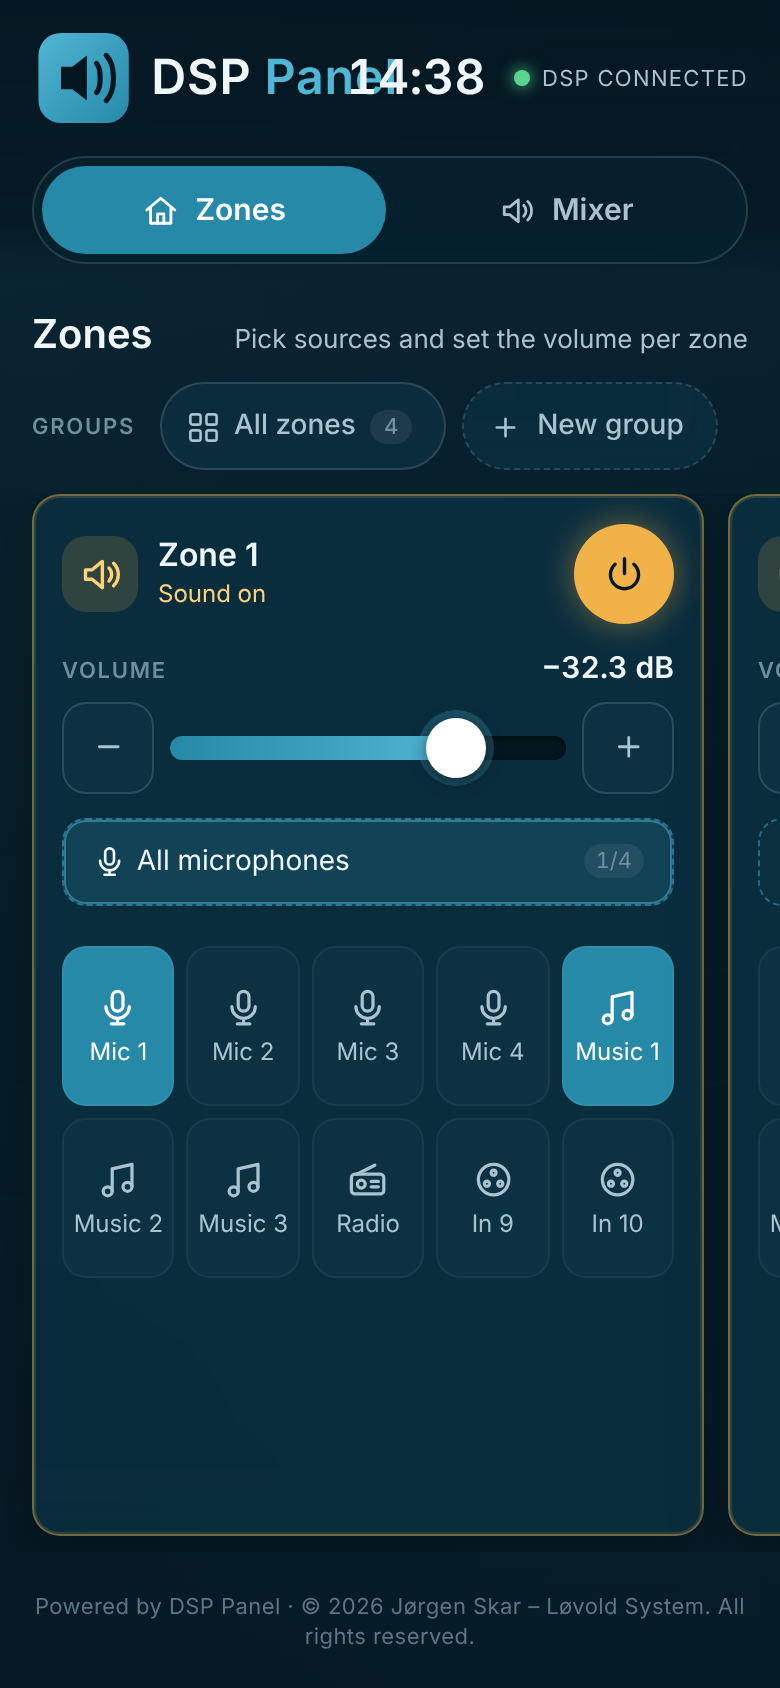
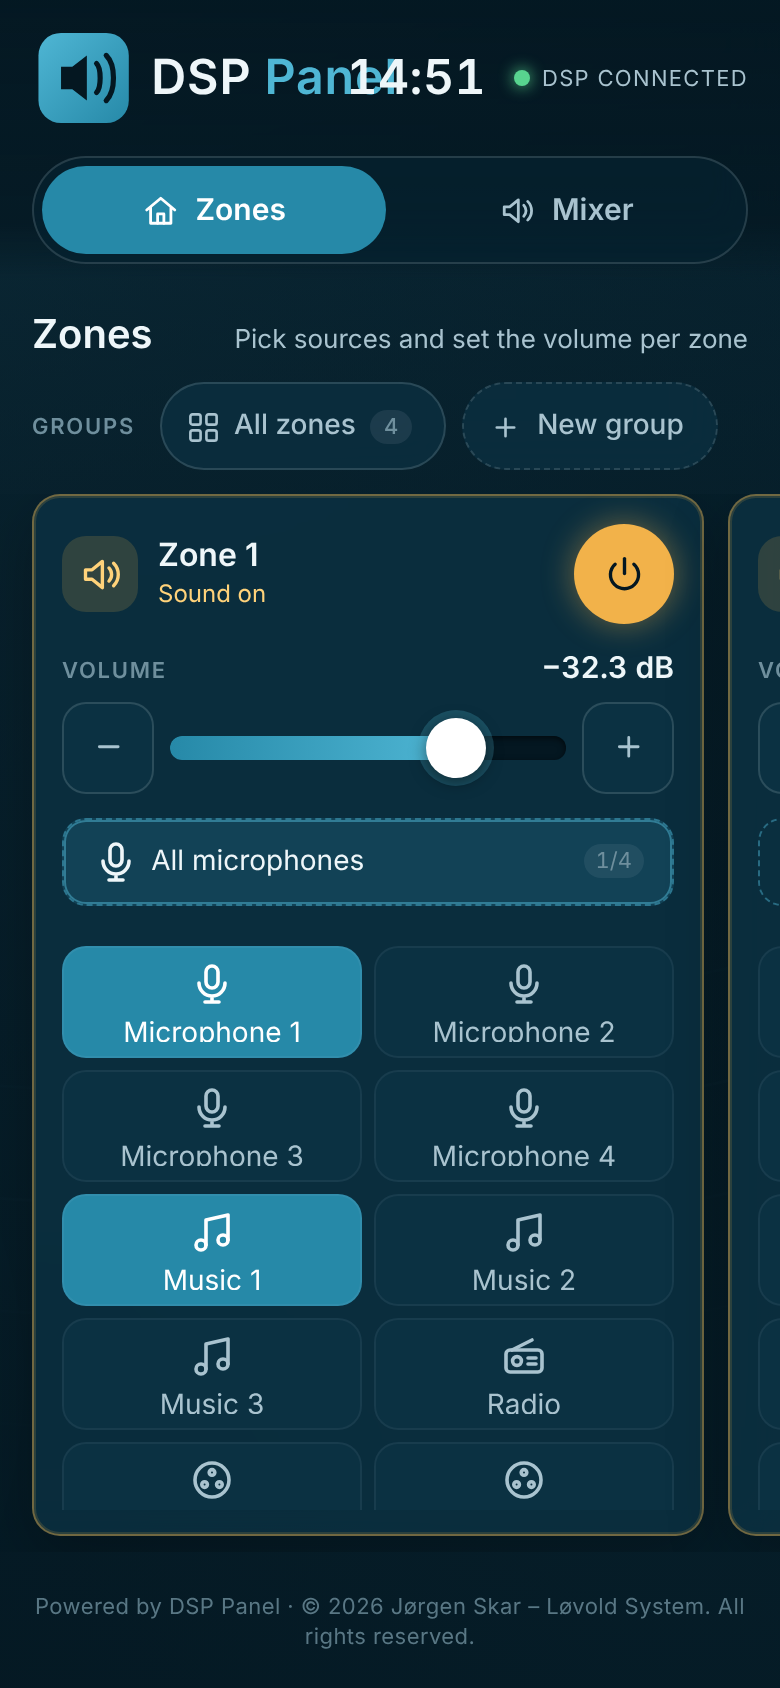
Source buttons per row setting (default 2); wide tiles show the full name

diff --git a/bridge/admin/index.html b/bridge/admin/index.html
@@ -148,7 +148,8 @@
     </div>
     <div class="row">
       <div><label data-t>Zones layout</label><select id="ui-zones"><option value="scroll" data-t>Side-scrolling, one row</option><option value="scroll2" data-t>Side-scrolling, two rows</option><option value="grid" data-t>Grid (wraps, scrolls down)</option></select></div>
-      <div><label data-t>Source buttons</label><select id="ui-sources"><option value="tiles" data-t>Compact tiles</option><option value="list" data-t>List</option></select></div>
+      <div><label data-t>Source buttons</label><select id="ui-sources"><option value="tiles" data-t>Tiles (icon above name)</option><option value="list" data-t>List (icon beside name)</option></select></div>
+      <div><label data-t>Buttons per row</label><select id="ui-src-cols"><option value="2">2</option><option value="3">3</option><option value="4">4</option><option value="5">5</option><option value="0" data-t>As many as fit</option></select></div>
     </div>
     <div class="row">
       <div><label data-t>Bridge address as seen from the screens</label><input id="public-url" placeholder="auto"></div>
@@ -328,7 +329,7 @@
     "Saving …": "Lagrer …", "Not saved:\n• %s": "Ikke lagret:\n• %s", "Saved and applied. The panels reload.": "Lagret og tatt i bruk. Panelene laster på nytt.",
     "The file is not valid JSON.": "Filen er ikke gyldig JSON.", "Replace the whole configuration with “%s” (%s sources, %s zones)? The panels reload.": "Erstatte hele oppsettet med «%s» (%s kilder, %s soner)? Panelene laster på nytt.",
     "Uploading …": "Laster opp …", "Not applied:\n• %s": "Ikke tatt i bruk:\n• %s", "Configuration from “%s” applied.": "Konfigurasjon fra «%s» tatt i bruk.", "Reconnecting to the DSP …": "Kobler til DSP på nytt …",
-    "Zone": "Sone", "licence": "lisens", "Zones layout": "Sone-oppsett", "Side-scrolling, one row": "Sidescroll, én rad", "Side-scrolling, two rows": "Sidescroll, to rader", "Grid (wraps, scrolls down)": "Rutenett (bryter, scroller ned)", "Source buttons": "Kildeknapper", "Compact tiles": "Kompakte fliser", "List": "Liste", "Short name": "Kortnavn", "for tiles, e.g. Mic 1": "til fliser, f.eks. Mik 1", "All rights reserved.": "Alle rettigheter forbeholdt.", "New source": "Ny kilde", "New zone": "Ny sone", "New group": "Ny gruppe", "New source group": "Ny kildegruppe", "New screen": "Ny skjerm",
+    "Zone": "Sone", "licence": "lisens", "Zones layout": "Sone-oppsett", "Side-scrolling, one row": "Sidescroll, én rad", "Side-scrolling, two rows": "Sidescroll, to rader", "Grid (wraps, scrolls down)": "Rutenett (bryter, scroller ned)", "Source buttons": "Kildeknapper", "Tiles (icon above name)": "Fliser (ikon over navn)", "List (icon beside name)": "Liste (ikon ved siden av navn)", "Buttons per row": "Knapper per rad", "As many as fit": "Så mange som får plass", "Short name": "Kortnavn", "for tiles, e.g. Mic 1": "til fliser, f.eks. Mik 1", "All rights reserved.": "Alle rettigheter forbeholdt.", "New source": "Ny kilde", "New zone": "Ny sone", "New group": "Ny gruppe", "New source group": "Ny kildegruppe", "New screen": "Ny skjerm",
   };
   const LS_LANG = "dsp-panel.admin.lang";
   let adminLang = "en"; try { adminLang = localStorage.getItem(LS_LANG) || "en"; } catch (_) {}
@@ -570,7 +571,7 @@
     $("#dsp-gap").value = site.dsp.minGapMs != null ? site.dsp.minGapMs : 100; $("#dsp-reply").value = site.dsp.replyTimeoutMs != null ? site.dsp.replyTimeoutMs : 400;
     $("#ctrl-mode").value = site.control.mode; $("#ctrl-level").value = site.control.inputLevelBlock; $("#ctrl-mute").value = site.control.inputMuteBlock; $("#ctrl-zone").value = site.control.zoneBlock;
     $("#lv-in-min").value = site.levels.input.min; $("#lv-in-max").value = site.levels.input.max; $("#lv-zone-min").value = site.levels.zone.min; $("#lv-zone-max").value = site.levels.zone.max;
-    $("#site-name").value = site.site.name; $("#site-area").value = site.site.area; $("#ui-step").value = (site.ui || {}).volumeStepPercent || 5; $("#ui-lang").value = (site.ui || {}).lang || "en"; $("#ui-zones").value = (site.ui || {}).zoneLayout || "scroll"; $("#ui-sources").value = (site.ui || {}).sourceLayout || "tiles"; $("#admin-password").value = (site.admin || {}).password || "";
+    $("#site-name").value = site.site.name; $("#site-area").value = site.site.area; $("#ui-step").value = (site.ui || {}).volumeStepPercent || 5; $("#ui-lang").value = (site.ui || {}).lang || "en"; $("#ui-zones").value = (site.ui || {}).zoneLayout || "scroll"; $("#ui-sources").value = (site.ui || {}).sourceLayout || "tiles"; $("#ui-src-cols").value = String((site.ui || {}).sourceColumns != null ? (site.ui || {}).sourceColumns : 2); $("#admin-password").value = (site.admin || {}).password || "";
     $("#public-url").value = site.publicUrl || ""; $("#sec-token").checked = !site.security || site.security.requireToken !== false;
     fillTheme(); renderSources(); renderZones(); renderGroups(); renderSourceGroups(); renderPanels();
   }
@@ -581,7 +582,7 @@
     site.control = { mode: $("#ctrl-mode").value, inputLevelBlock: $("#ctrl-level").value.trim(), inputMuteBlock: $("#ctrl-mute").value.trim(), zoneBlock: $("#ctrl-zone").value.trim() };
     site.levels = { input: { min: Number($("#lv-in-min").value), max: Number($("#lv-in-max").value) }, zone: { min: Number($("#lv-zone-min").value), max: Number($("#lv-zone-max").value) } };
     site.site = { name: $("#site-name").value.trim(), area: $("#site-area").value.trim() };
-    site.ui = Object.assign(site.ui || {}, { volumeStepPercent: Number($("#ui-step").value) || 5, lang: $("#ui-lang").value, zoneLayout: $("#ui-zones").value, sourceLayout: $("#ui-sources").value });
+    site.ui = Object.assign(site.ui || {}, { volumeStepPercent: Number($("#ui-step").value) || 5, lang: $("#ui-lang").value, zoneLayout: $("#ui-zones").value, sourceLayout: $("#ui-sources").value, sourceColumns: Number($("#ui-src-cols").value) });
     site.admin = { password: $("#admin-password").value };
     readTheme(); site.publicUrl = $("#public-url").value.trim(); site.security = Object.assign(site.security || {}, { requireToken: $("#sec-token").checked });
     (site.panels || []).forEach(p => { if (p.views && p.views.length === VIEWS.length) delete p.views; });

diff --git a/css/app.css b/css/app.css
@@ -211,6 +211,12 @@ body[data-sources="tiles"] .source-btn svg.icon { width: 1.35rem; height: 1.35re
 body[data-sources="tiles"] .source-btn span { white-space: normal; line-height: 1.1; max-width: 100%; display: -webkit-box; -webkit-line-clamp: 2; -webkit-box-orient: vertical; overflow: hidden; }
 body[data-sources="tiles"] .source-btn.is-some::after { margin: 0; position: absolute; top: 0.35rem; right: 0.35rem; }
 body[data-sources="tiles"] .source-btn { position: relative; }
+body[data-src-cols="2"] .source-list { grid-template-columns: repeat(2, minmax(0, 1fr)); }
+body[data-src-cols="3"] .source-list { grid-template-columns: repeat(3, minmax(0, 1fr)); }
+body[data-src-cols="4"] .source-list { grid-template-columns: repeat(4, minmax(0, 1fr)); }
+body[data-src-cols="5"] .source-list { grid-template-columns: repeat(5, minmax(0, 1fr)); }
+body[data-sources="tiles"][data-src-cols="2"] .source-btn, body[data-sources="tiles"][data-src-cols="3"] .source-btn { font-size: 0.875rem; gap: 0.35rem; }
+body[data-sources="tiles"][data-src-cols="2"] .source-btn svg.icon, body[data-sources="tiles"][data-src-cols="3"] .source-btn svg.icon { width: 1.5rem; height: 1.5rem; }
 body[data-sources="tiles"] .source-group-btn { flex-direction: row; min-height: 2.75rem; font-size: 0.875rem; text-align: left; padding: 0.4rem 0.875rem; }
 body[data-sources="tiles"] .source-group-btn svg.icon { width: 1.1rem; height: 1.1rem; }
 .source-btn:hover { background: var(--navy-700); color: var(--fg); }

diff --git a/js/app.js b/js/app.js
@@ -48,7 +48,9 @@
   document.body.dataset.zones = C.ui.zoneLayout === "grid" ? "grid" : "scroll";
   document.body.dataset.zoneRows = C.ui.zoneLayout === "scroll2" ? "2" : "1";
   document.body.dataset.sources = C.ui.sourceLayout === "list" ? "list" : "tiles";
-  const srcLabel = s => (document.body.dataset.sources === "tiles" && s.short) ? s.short : s.name;
+  const srcCols = [2, 3, 4, 5].includes(Number(C.ui.sourceColumns)) ? Number(C.ui.sourceColumns) : 0;   // 0 = as many as fit
+  if (srcCols) document.body.dataset.srcCols = String(srcCols);
+  const srcLabel = s => (document.body.dataset.sources === "tiles" && s.short && (srcCols === 0 || srcCols >= 4)) ? s.short : s.name;   // wide tiles show the full name
   // live preview from /admin (same origin): the admin page posts the theme as it is being edited
   window.addEventListener("message", e => { if (e.origin === location.origin && e.data && e.data.t === "theme") applyTheme(e.data.theme); });
 

diff --git a/bridge/server.js b/bridge/server.js
@@ -124,6 +124,7 @@ function validateSite(s) {
   if (s.ui && s.ui.lang && !LANGS.includes(s.ui.lang)) p.push(`language must be ${LANGS.join("/")}`);
   if (s.ui && s.ui.zoneLayout && !["scroll", "scroll2", "grid"].includes(s.ui.zoneLayout)) p.push("zone layout must be scroll, scroll2 or grid");
   if (s.ui && s.ui.sourceLayout && !["tiles", "list"].includes(s.ui.sourceLayout)) p.push("source layout must be tiles or list");
+  if (s.ui && s.ui.sourceColumns != null && ![0, 2, 3, 4, 5].includes(Number(s.ui.sourceColumns))) p.push("source buttons per row must be auto, 2, 3, 4 or 5");
   const th = s.theme || {};
   const hex = v => /^#[0-9a-f]{6}$/i.test(v);
   Object.entries(th.colors || {}).forEach(([k, v]) => { if (!hex(v)) p.push(`theme colour ${k}: use #rrggbb`); });

diff --git a/js/config.js b/js/config.js
@@ -260,6 +260,7 @@ window.PANEL_CONFIG = {
     "lang": "en",
     "zoneLayout": "scroll",
     "sourceLayout": "tiles",
+    "sourceColumns": 2,
     "analogMax": 65535
   }
 };

diff --git a/README.md b/README.md
@@ -88,7 +88,7 @@ writes `site.json`, re-reads the DSP and reloads every open panel.
 |---|---|
 | DSP connection | IP, port, password, keepalive/timeouts, command pacing, reconnect |
 | Control | direct block control (default) or DMP groups; block numbers; fader dB ranges |
-| Site and panel | name, volume step, panel language (English / Norwegian, overridable per screen; the admin page has its own language switch in the header, English by default), **zones layout** (side-scrolling row of full-height cards – one or two rows – or a wrapping grid), **source buttons** (compact tiles with short names, or a list), admin password, bridge address as seen from the screens, token requirement |
+| Site and panel | name, volume step, panel language (English / Norwegian, overridable per screen; the admin page has its own language switch in the header, English by default), **zones layout** (side-scrolling row of full-height cards – one or two rows – or a wrapping grid), **source buttons** (tiles or list, 2–5 per row or as many as fit; short names are used when tiles get narrow), admin password, bridge address as seen from the screens, token requirement |
 | Appearance | logo and background image (uploaded, stored in `bridge/data/`, bundled into the `.ch5z`), logo height, background darkening, the complete colour palette (14 colours, with presets) – edits show live in the preview, *Save* applies them everywhere |
 | Sources | one row per DSP input: name, short name (for the tiles), input number, icon, optional label (mixer tag) |
 | Zones | one row per DSP output: name, output number, icon, hint |
